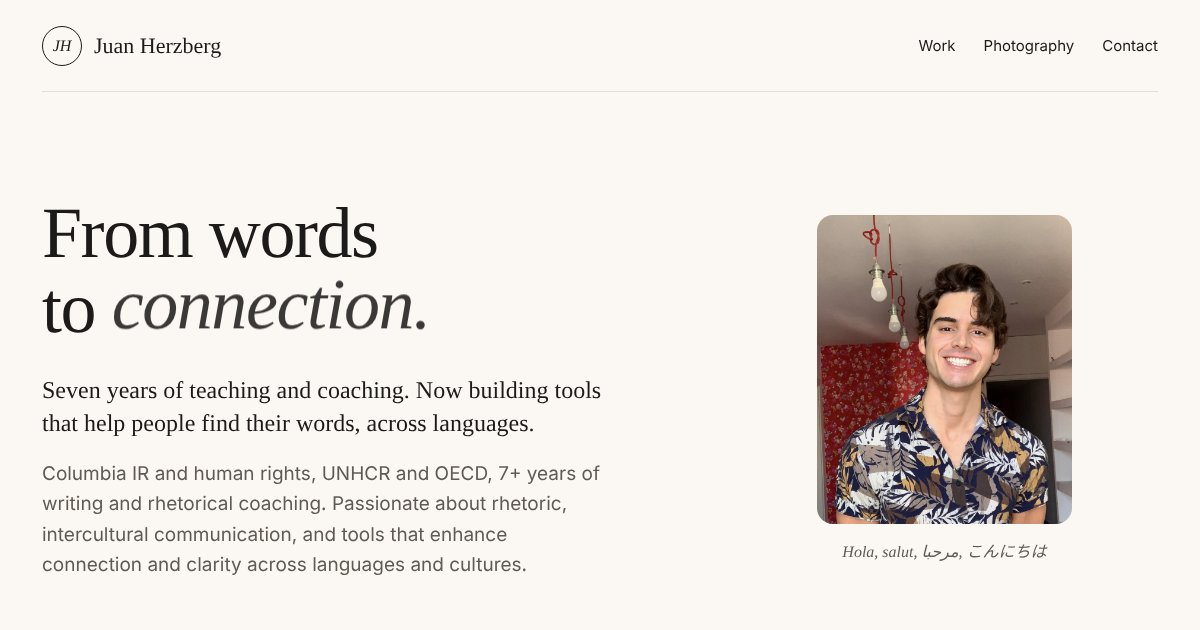
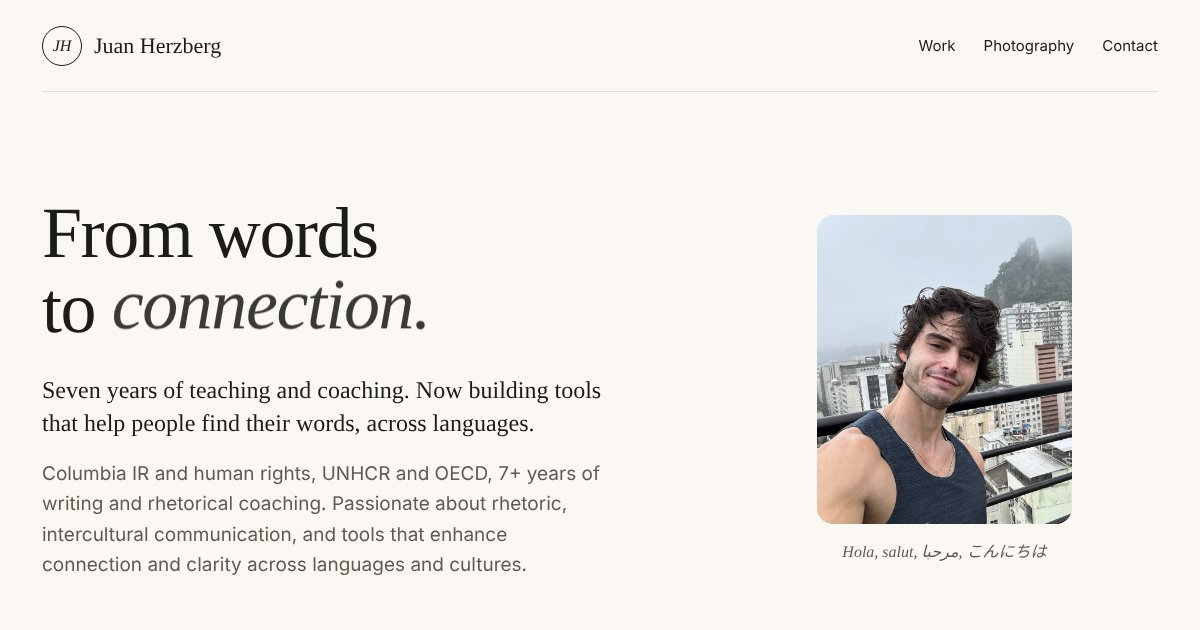
New portrait photo
Claude-Session: https://claude.ai/code/session_01U3Xk9vXxwWuSuvx6FB8vMs

Changed region(s): [[0.6783, 0.3317, 0.8942, 0.8444]]

diff --git a/index.html b/index.html
@@ -159,7 +159,7 @@ nav{gap:18px}
 <p class="rise" style="animation-delay:.15s">Columbia IR and human rights, UNHCR and OECD, 7+ years of writing and rhetorical coaching. Passionate about rhetoric, intercultural communication, and tools that enhance connection and clarity across languages and cultures.</p>
 </div>
 <div class="portrait-wrap rise" style="animation-delay:.3s">
-<div class="portrait"><img src="images/portrait.jpg" alt="Portrait of Juan smiling"></div>
+<div class="portrait"><img src="images/portrait.jpg" alt="Juan smiling on a rooftop in Rio de Janeiro, with the city and a misty mountain behind him"></div>
 <span class="hello">Hola, salut, مرحبا, こんにちは</span>
 </div>
 </section>
